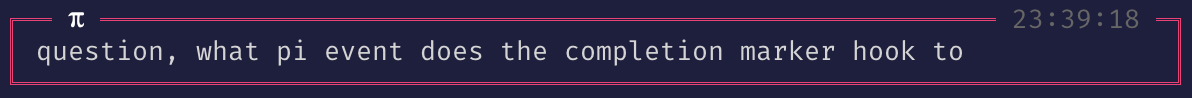
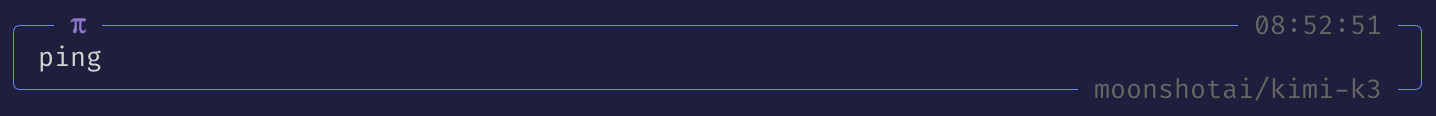
docs: document completion marker border and refresh demo media

Changed region(s): [[0.0, 0.398, 0.807, 0.6429], [0.0, 0.6735, 0.9933, 0.8878], [0.0, 0.0918, 0.9933, 0.3061]]

diff --git a/README.md b/README.md
@@ -10,7 +10,7 @@ We garnish our pies. It seemed rude not to extend Pi the same courtesy. This is 
 
 ![Demo of pi-topping's shimmering activity word, scrolling activity meter, elapsed timer, token count, and token rate](https://raw.githubusercontent.com/underactive/pi-topping/main/media/demo.gif)
 
-**Completion Marker** — end-of-turn marker with icon, randomized verb, token consumption display, and optional border-style/color decorations. If you steered or followed up (`Alt+Enter`) while Pi was working, the marker also tallies those, e.g. `π Whisked for 2s (↓ 55 tokens · 2 mid-turn inputs)`. Hooks into Pi's `agent_settled` event.
+**Completion Marker** — end-of-turn marker with icon, randomized verb, token consumption display, and optional border-style/color decorations. Border style defaults to `none`; `heavy` renders e.g. `┗━━ π Mustered for 4s (↓ 25 tokens) ━━━━━━ ━━━━ ━━ ━`. If you steered or followed up (`Alt+Enter`) while Pi was working, the marker also tallies those, e.g. `π Whisked for 2s (↓ 55 tokens · 2 mid-turn inputs)`. Hooks into Pi's `agent_settled` event.
 
 ![Example of pi-topping's completion marker](https://raw.githubusercontent.com/underactive/pi-topping/main/media/demo_completion_marker.png)
 
@@ -78,7 +78,9 @@ Run `/topping-settings` (TUI only) to customize your toppings. Settings persist 
 
 ❯ marks the keyboard cursor, and the selected row is highlighted. The Provider and Model toggles independently control the lower-right label on decorated prompts.
 
-The User Prompt Border style cycles through `double`, `single`, `rounded`, and `heavy` box-drawing sets, followed by its Border color. The Completion Marker Border style offers those same choices plus `none`; `none` leaves the marker undecorated, and its Border color follows the style. User Prompt and Completion Marker Border color settings, along with the Animated spinner, Token activity monitor, and Token rate colors, cycle through `accent`, `border`, `borderAccent`, `success`, `error`, and `warning`.
+The User Prompt Border style cycles through `double`, `single`, `rounded`, and `heavy` box-drawing sets, followed by its Border color. The Completion Marker Border style offers those same choices plus `none`; `none` leaves the marker undecorated, and its Border color follows the style.
+
+The User Prompt and Completion Marker Border color settings, along with the Animated spinner, Token activity monitor, and Token rate colors, cycle through `accent`, `border`, `borderAccent`, `success`, `error`, and `warning`.
 
 Under **Elements Order**, press `␣` to grab a row, then `↑`/`↓` to slide that element
 left or right within the loader. Elapsed time, output tokens, and token rate are joined with

diff --git a/CHANGELOG.md b/CHANGELOG.md
@@ -7,14 +7,12 @@ and this project adheres to [Semantic Versioning](https://semver.org/spec/v2.0.0
 
 ## [Unreleased]
 
-### Added
-
-- Configurable Completion Marker border style with `none`, `double`, `single`, `rounded`, and `heavy` choices; `none` keeps the existing undecorated marker.
-- Completion Marker border color setting with the same `accent`, `border`, `borderAccent`, `success`, `error`, and `warning` choices as the User Prompt border color.
-
 ## [0.5.0] - 2026-08-06
 
 ### Added
+- Configurable Completion Marker border style with `none`, `double`, `single`, `rounded`, and `heavy` choices; `none` keeps the existing undecorated marker.
+- Completion Marker border color setting with the same `accent`, `border`, `borderAccent`, `success`, `error`, and `warning` choices as the User Prompt border color.
+- All color settings (prompt border, completion marker border, animated spinner, token activity monitor, and token rate) now offer `accent`, `border`, `borderAccent`, `success`, `error`, and `warning` choices.
 - Added an `Invert shimmer` setting that keeps the working text at the default text color and sweeps a dimmed gradient across it.
 - Prompt decorators now show the active provider/model in the lower-right border, with independent Provider and Model visibility toggles in `/topping-settings`.
 - "Token rate color" setting in `/topping-settings`, defaulting to `warning`.
@@ -30,6 +28,7 @@ and this project adheres to [Semantic Versioning](https://semver.org/spec/v2.0.0
 - `/topping-settings` now describes prompt decoration, working-loader features/order, and completion-marker settings.
 
 ### Fixed
+- Settings menu labels and titles now use visible width when truncating, keeping box-drawing layouts aligned.
 - Provider and model labels now strip control and Unicode formatting characters before rendering.
 - Settings previews now require strict boolean values.
 - Removed the warning-only fade wrapper, added safe fallback rendering for non-truecolor themes, and hardened preview cycle-value conversion.
